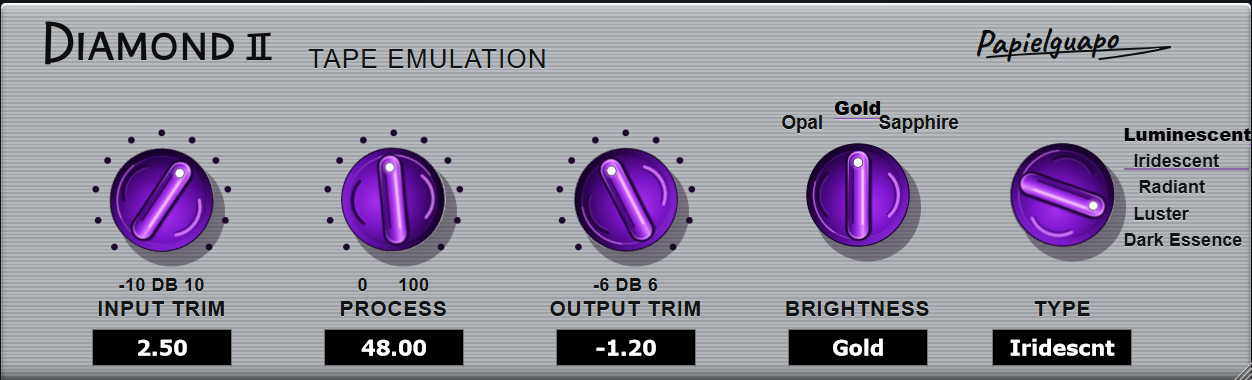
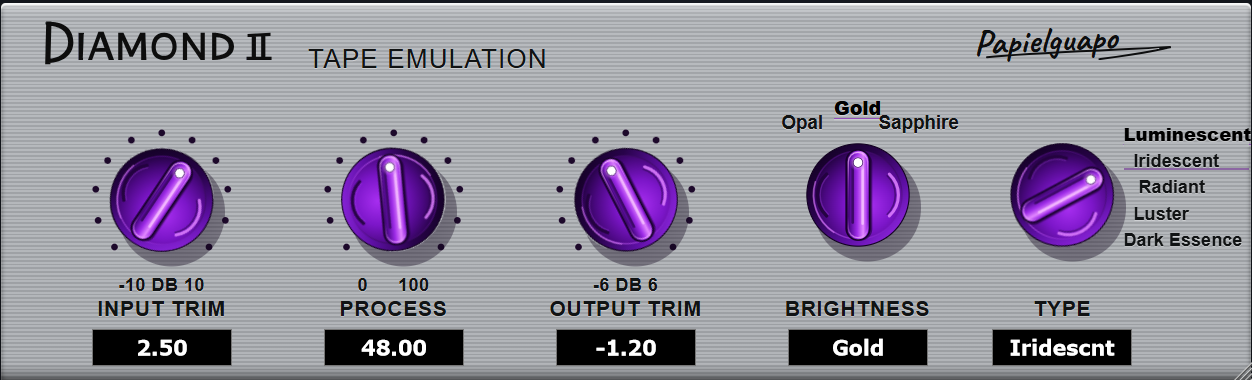
fix: compact scaling, bounded type selector and smooth character transitions

Changed region(s): [[0.8099, 0.4053, 0.9034, 0.6368]]

diff --git a/Tests/DspVerificationTest.cpp b/Tests/DspVerificationTest.cpp
@@ -11,6 +11,11 @@ juce::Slider* findSlider(juce::Component& root,const juce::String& name) {
     for(auto* child:root.getChildren()) if(auto* slider=findSlider(*child,name)) return slider;
     return nullptr;
 }
+juce::Button* findButton(juce::Component& root,const juce::String& id) {
+    if(auto* button=dynamic_cast<juce::Button*>(&root); button && button->getComponentID()==id) return button;
+    for(auto* child:root.getChildren()) if(auto* button=findButton(*child,id)) return button;
+    return nullptr;
+}
 int main() { try {
     juce::ScopedJuceInitialiser_GUI gui;
     std::mt19937 rng(2026); std::uniform_real_distribution<float> noise(-1,1);
@@ -65,7 +70,8 @@ int main() { try {
     }
     DiamondIIAudioProcessor p; set(p,"input",2.5f); set(p,"process",48); set(p,"output",-1.2f); set(p,"type",1);
     { DiamondIIAudioProcessorEditor ed(p); require(ed.isResizable(),"resizable");
-      for(int w:{751,939,1252,1565,1878,2504}) { ed.setSize(w,juce::roundToInt(w*380./1252.)); require(p.editorWidth==w,"resize persisted"); }
+      require(ed.getConstrainer()->getMinimumWidth()==313,"25 percent minimum");
+      for(int w:{313,417,626,751,939,1252,1565,1878,2504}) { ed.setSize(w,juce::roundToInt(w*380./1252.)); require(p.editorWidth==w,"resize persisted"); }
       auto* brightness=findSlider(ed,"brightness"); auto* type=findSlider(ed,"type");
       require(brightness && type,"skin choice knobs present");
       brightness->setValue(2,juce::sendNotificationSync); type->setValue(4,juce::sendNotificationSync);
@@ -73,11 +79,32 @@ int main() { try {
       require(p.state.getRawParameterValue("type")->load()==4,"type knob updates DSP");
       require(brightness->getTextFromValue(2)=="Sapphire" && type->getTextFromValue(4)=="DarkEssnc","skin choice readouts");
       set(p,"type",2); require(type->getValue()==2,"automation updates skin knob");
+      require(type->getRotaryParameters().stopAtEnd,"type stops at ends");
+      require(DiamondIIAudioProcessorEditor::typePointerAngle(4)-DiamondIIAudioProcessorEditor::typePointerAngle(0)<juce::MathConstants<float>::pi,"type sweep below half turn");
+      for(int i=0;i<5;++i) {
+          auto* row=findButton(ed,"type-row-"+juce::String(i)); require(row && row->onClick,"clickable type row"); row->onClick();
+          require(type->getValue()==i && p.state.getRawParameterValue("type")->load()==i,"row selects matching DSP and knob");
+          float y=195.5f-61.5f/std::tan(DiamondIIAudioProcessorEditor::typePointerAngle(i));
+          require(std::abs(y-(134.f+26*i))<.001f,"type pointer aims at label");
+      }
+      type->setValue(99,juce::sendNotificationSync); require(type->getValue()==4,"type upper clamp");
+      type->setValue(-99,juce::sendNotificationSync); require(type->getValue()==0,"type lower clamp");
     }
     juce::MemoryBlock state; p.getStateInformation(state); DiamondIIAudioProcessor restored; restored.setStateInformation(state.getData(),(int)state.getSize());
     require(restored.editorWidth==2504,"restore width"); require(restored.state.getRawParameterValue("process")->load()==48,"restore parameter");
     juce::MemoryBlock again; restored.getStateInformation(again);
     require(state==again,"state round trip");
+    { DiamondIIAudioProcessor tiny; tiny.editorWidth=313; tiny.editorHeight=95; juce::MemoryBlock data; tiny.getStateInformation(data);
+      DiamondIIAudioProcessor copy; copy.setStateInformation(data.getData(),(int)data.getSize()); DiamondIIAudioProcessorEditor editor(copy);
+      require(editor.getWidth()==313 && editor.getHeight()==95,"25 percent state restores"); }
+    {
+        DiamondIIAudioProcessor fade; set(fade,"process",100); fade.prepareToPlay(48000,2048); juce::MidiBuffer midi;
+        juce::AudioBuffer<float> signal(2,2048); for(int c=0;c<2;++c) for(int n=0;n<2048;++n) signal.setSample(c,n,.5f); fade.processBlock(signal,midi);
+        auto oldEngine=fade.engine,newEngine=fade.engine;
+        float oldSample=oldEngine.tickGained(.5f,0,1,1,1,0,false),newSample=newEngine.tickGained(.5f,0,1,1,1,4,false);
+        set(fade,"type",4); signal.setSize(2,1); signal.setSample(0,0,.5f); signal.setSample(1,0,.5f); fade.processBlock(signal,midi);
+        require(std::abs(signal.getSample(0,0)-(oldSample+(newSample-oldSample)/240.f))<1e-6f,"5 ms type crossfade starts smoothly");
+    }
     // Warm state must not leak into a later exact-unity block.
     p.prepareToPlay(48000,64); juce::AudioBuffer<float> b(2,64); juce::MidiBuffer m;
     for(int c=0;c<2;++c) for(int n=0;n<64;++n) b.setSample(c,n,.6f); p.processBlock(b,m);

diff --git a/Source/PluginEditor.cpp b/Source/PluginEditor.cpp
@@ -18,7 +18,10 @@ void DiamondLook::drawRotarySlider(juce::Graphics& g,int,int,int,int,float pos,f
     const float neutral=(float)slider.getProperties()["neutral"],sweep=(float)slider.getProperties()["sweep"];
     juce::Graphics::ScopedSaveState save(g); juce::Path clip;
     clip.addEllipse(cx-52.5f,cy-52.5f,105.f,105.f); g.reduceClipRegion(clip);
-    g.addTransform(juce::AffineTransform::rotation((pos-neutral)*sweep,cx,cy));
+    const float rotation=slider.getName()=="type"
+        ? DiamondIIAudioProcessorEditor::typePointerAngle(juce::roundToInt(pos*4))-std::atan2(21.5f,25.5f)
+        : (pos-neutral)*sweep;
+    g.addTransform(juce::AffineTransform::rotation(rotation,cx,cy));
     g.drawImageAt(skin,-juce::roundToInt(sx),-143);
 }
 DiamondIIAudioProcessorEditor::DiamondIIAudioProcessorEditor(DiamondIIAudioProcessor& p):AudioProcessorEditor(p),processor(p) {
@@ -45,9 +48,18 @@ DiamondIIAudioProcessorEditor::DiamondIIAudioProcessorEditor(DiamondIIAudioProce
         k.setDoubleClickReturnValue(true,i==3?1:0);
         k.setTooltip("Drag to adjust; double-click to reset. Right-click the panel for interface size.");
     }
-    setResizable(true,true); setResizeLimits(751,228,2504,760); getConstrainer()->setFixedAspectRatio(1252./380.);
+    const juce::StringArray typeNames{"Luminescent","Iridescent","Radiant","Luster","Dark Essence"};
+    for(int i=0;i<5;++i) {
+        auto& row=typeRows[i]; panel.addAndMakeVisible(row); row.setName(typeNames[i]); row.setComponentID("type-row-"+juce::String(i));
+        row.setTooltip("Select "+typeNames[i]); row.onClick=[this,i] {
+            auto* parameter=processor.state.getParameter("type"); parameter->beginChangeGesture(); parameter->setValueNotifyingHost(parameter->convertTo0to1((float)i)); parameter->endChangeGesture();
+        };
+    }
+    knobs[4].setRotaryParameters(typePointerAngle(0)+juce::MathConstants<float>::twoPi,typePointerAngle(4)+juce::MathConstants<float>::twoPi,true);
+    knobs[4].setMouseDragSensitivity(140);
+    setResizable(true,true); setResizeLimits(313,95,2504,760); getConstrainer()->setFixedAspectRatio(1252./380.);
     int width=p.editorWidth.load();
-    if(auto* display=juce::Desktop::getInstance().getDisplays().getPrimaryDisplay()) width=juce::jlimit(751,2504,juce::jmin(width,display->userArea.getWidth()-40,juce::roundToInt((display->userArea.getHeight()-80)*1252./380.)));
+    if(auto* display=juce::Desktop::getInstance().getDisplays().getPrimaryDisplay()) width=juce::jlimit(313,2504,juce::jmin(width,display->userArea.getWidth()-40,juce::roundToInt((display->userArea.getHeight()-80)*1252./380.)));
     setSize(width,juce::roundToInt(width*380./1252.));
 }
 DiamondIIAudioProcessorEditor::~DiamondIIAudioProcessorEditor() { setLookAndFeel(nullptr); }
@@ -56,6 +68,7 @@ void DiamondIIAudioProcessorEditor::resized() {
     const float scale=juce::jmin(getWidth()/1252.f,getHeight()/380.f);
     panel.setTransform(juce::AffineTransform::scale(scale).translated((getWidth()-1252*scale)*.5f,(getHeight()-380*scale)*.5f));
     const int xs[]={92,324,556,788,992}; for(int i=0;i<5;++i) knobs[i].setBounds(xs[i],143,140,223);
+    for(int i=0;i<5;++i) typeRows[i].setBounds(1121,123+i*26,128,25);
 }
 void DiamondIIAudioProcessorEditor::paint(juce::Graphics& g) {
     g.fillAll(juce::Colours::black); juce::Graphics::ScopedSaveState saved(g);
@@ -71,9 +84,9 @@ void DiamondIIAudioProcessorEditor::paint(juce::Graphics& g) {
 void DiamondIIAudioProcessorEditor::mouseDown(const juce::MouseEvent& event) {
     if(!event.mods.isPopupMenu()) return;
     juce::PopupMenu menu; menu.addSectionHeader("Interface size");
-    const int percentages[]={60,75,100,125,150,200}; for(int i=0;i<6;++i) menu.addItem(i+1,juce::String(percentages[i])+" %");
+    const int percentages[]={25,33,50,60,75,100,125,150,200}; for(int i=0;i<9;++i) menu.addItem(i+1,juce::String(percentages[i])+" %");
     menu.showMenuAsync(juce::PopupMenu::Options().withTargetComponent(this),[safe=juce::Component::SafePointer<DiamondIIAudioProcessorEditor>(this)](int result) {
-        if(!safe || result<1 || result>6) return; const double sizes[]={.6,.75,1,1.25,1.5,2};
+        if(!safe || result<1 || result>9) return; const double sizes[]={.25,1./3.,.5,.6,.75,1,1.25,1.5,2};
         safe->setSize(juce::roundToInt(1252*sizes[result-1]),juce::roundToInt(380*sizes[result-1]));
     });
 }

diff --git a/Source/PluginProcessor.cpp b/Source/PluginProcessor.cpp
@@ -15,17 +15,31 @@ DiamondIIAudioProcessor::DiamondIIAudioProcessor():AudioProcessor(BusesPropertie
 void DiamondIIAudioProcessor::prepareToPlay(double fs,int) {
     engine.prepare(fs); inputGain.reset(fs,.015); outputGain.reset(fs,.015); amount.reset(fs,.015);
     inputGain.setCurrentAndTargetValue(std::pow(10.,values[0]->load()/20.)); outputGain.setCurrentAndTargetValue(std::pow(10.,values[2]->load()/20.)); amount.setCurrentAndTargetValue(values[1]->load()*.01f);
+    currentType=juce::roundToInt(values[4]->load()); currentBrightness=juce::roundToInt(values[3]->load());
+    engine.setBrightness(currentBrightness); previousEngine=engine; previousType=currentType;
+    characterFade.reset(fs,.005); characterFade.setCurrentAndTargetValue(1);
 }
 bool DiamondIIAudioProcessor::isBusesLayoutSupported(const BusesLayout& l) const { return l.getMainInputChannelSet()==l.getMainOutputChannelSet() && (l.getMainOutputChannelSet()==juce::AudioChannelSet::mono() || l.getMainOutputChannelSet()==juce::AudioChannelSet::stereo()); }
 void DiamondIIAudioProcessor::processBlock(juce::AudioBuffer<float>& b,juce::MidiBuffer&) {
     juce::ScopedNoDenormals guard;
     const float in=values[0]->load(),p=values[1]->load()*.01f,out=values[2]->load();
-    engine.setBrightness(juce::roundToInt(values[3]->load())); const int t=juce::roundToInt(values[4]->load());
+    const int brightness=juce::roundToInt(values[3]->load()),t=juce::roundToInt(values[4]->load());
+    if(t!=currentType || brightness!=currentBrightness) {
+        previousEngine=engine; previousType=currentType; currentType=t; currentBrightness=brightness;
+        engine.setBrightness(brightness); characterFade.setCurrentAndTargetValue(0); characterFade.setTargetValue(1);
+    }
     inputGain.setTargetValue(std::pow(10.,in/20.)); outputGain.setTargetValue(std::pow(10.,out/20.)); amount.setTargetValue(p);
     const bool unity=in==0 && p==0 && out==0;
     for(int n=0;n<b.getNumSamples();++n) {
         const auto ig=inputGain.getNextValue(),og=outputGain.getNextValue(); const float mix=amount.getNextValue();
-        for(int c=0;c<b.getNumChannels();++c) b.setSample(c,n,engine.tickGained(b.getSample(c,n),c,ig,mix,og,t,unity));
+        const bool transitioning=characterFade.isSmoothing(); const float fade=characterFade.getNextValue();
+        for(int c=0;c<b.getNumChannels();++c) {
+            const float input=b.getSample(c,n),next=engine.tickGained(input,c,ig,mix,og,t,unity);
+            if(transitioning) {
+                const float old=previousEngine.tickGained(input,c,ig,mix,og,previousType,unity);
+                b.setSample(c,n,unity?input:old+(next-old)*fade);
+            } else b.setSample(c,n,next);
+        }
     }
 }
 juce::AudioProcessorEditor* DiamondIIAudioProcessor::createEditor() { return new DiamondIIAudioProcessorEditor(*this); }
@@ -35,6 +49,6 @@ void DiamondIIAudioProcessor::getStateInformation(juce::MemoryBlock& b) {
 void DiamondIIAudioProcessor::setStateInformation(const void* d,int n) {
     auto xml=getXmlFromBinary(d,n); if(!xml || !xml->hasTagName("DiamondII")) return;
     auto s=juce::ValueTree::fromXml(*xml); state.replaceState(s);
-    editorWidth=juce::jlimit(751,2504,(int)s.getProperty("width",1252)); editorHeight=juce::roundToInt(editorWidth.load()*380./1252.);
+    editorWidth=juce::jlimit(313,2504,(int)s.getProperty("width",1252)); editorHeight=juce::roundToInt(editorWidth.load()*380./1252.);
 }
 juce::AudioProcessor* JUCE_CALLTYPE createPluginFilter() { return new DiamondIIAudioProcessor; }

diff --git a/Tests/GeneratePluginScreenshot.cpp b/Tests/GeneratePluginScreenshot.cpp
@@ -12,7 +12,9 @@ int main(int argc,char** argv) {
     { juce::FileOutputStream stream(file); if(!stream.openedOk()) return 1; stream.setPosition(0); stream.truncate(); juce::PNGImageFormat png; if(!png.writeImageToStream(image,stream)) return 2; }
     std::cout<<file.getFullPathName()<<" "<<image.getWidth()<<"x"<<image.getHeight()<<" "<<file.getSize()<<" bytes\n";
     if(image.getWidth()!=1960 || image.getHeight()!=600 || file.getSize()<=50*1024) return 3;
-    for(auto size:{751,939,1252,1565,1878,2504}) { editor.setSize(size,juce::roundToInt(size*380./1252.)); auto preview=editor.createComponentSnapshot(editor.getLocalBounds()); juce::FileOutputStream out(file.getSiblingFile("screenshot-"+juce::String(size)+".png")); out.setPosition(0); out.truncate(); juce::PNGImageFormat{}.writeImageToStream(preview,out); }
+    for(auto size:{313,417,626,751,939,1252,1565,1878,2504}) { editor.setSize(size,juce::roundToInt(size*380./1252.)); auto preview=editor.createComponentSnapshot(editor.getLocalBounds()); juce::FileOutputStream out(file.getSiblingFile("screenshot-"+juce::String(size)+".png")); out.setPosition(0); out.truncate(); juce::PNGImageFormat{}.writeImageToStream(preview,out); }
+    editor.setSize(1252,380);
+    for(int i=0;i<5;++i) { set("type",(float)i); auto shot=editor.createComponentSnapshot(editor.getLocalBounds()); juce::FileOutputStream out(file.getSiblingFile("type-"+juce::String(i)+".png")); out.setPosition(0); out.truncate(); juce::PNGImageFormat{}.writeImageToStream(shot,out); }
     DiamondIIAudioProcessor defaults;
     DiamondIIAudioProcessorEditor reference(defaults); reference.setSize(1252,380);
     auto defaultImage=reference.createComponentSnapshot(reference.getLocalBounds());

diff --git a/Source/PluginEditor.h b/Source/PluginEditor.h
@@ -1,5 +1,12 @@
 #pragma once
 #include "PluginProcessor.h"
+class TypeRowButton : public juce::Button {
+public:
+    TypeRowButton():Button("Type") {}
+    void paintButton(juce::Graphics& g,bool hover,bool down) override {
+        if(hover || down) { g.setColour(juce::Colour(0xff7719ae).withAlpha(down?.23f:.12f)); g.fillRoundedRectangle(getLocalBounds().toFloat(),2); }
+    }
+};
 class DiamondLook : public juce::LookAndFeel_V4 {
 public:
     DiamondLook();
@@ -15,10 +22,12 @@ public:
     void paint(juce::Graphics&) override;
     void resized() override;
     void mouseDown(const juce::MouseEvent&) override;
+    static float typePointerAngle(int index) { return std::atan2(61.5f,195.5f-(134.f+26.f*juce::jlimit(0,4,index))); }
 private:
     DiamondIIAudioProcessor& processor;
     DiamondLook look;
     juce::Component panel;
     std::array<juce::Slider,5> knobs;
+    std::array<TypeRowButton,5> typeRows;
     std::array<std::unique_ptr<juce::AudioProcessorValueTreeState::SliderAttachment>,5> attachments;
 };

diff --git a/Source/PluginProcessor.h b/Source/PluginProcessor.h
@@ -28,4 +28,7 @@ private:
     std::array<std::atomic<float>*,5> values;
     juce::SmoothedValue<double> inputGain,outputGain;
     juce::SmoothedValue<float> amount;
+    diamond::Engine previousEngine;
+    juce::SmoothedValue<float> characterFade;
+    int currentType=0,currentBrightness=1,previousType=0;
 };

diff --git a/README.md b/README.md
@@ -2,7 +2,7 @@
 
 ![DIAMOND II - Papielguapo Edition VST3](assets/screenshot.png)
 
-A C++20 / JUCE 8 parallel tape-colour processor, with the supplied silver-metal / purple-knob skin, five saturation characters and three spectral profiles. Builds VST3 and Standalone for mono/stereo float processing. Resize by dragging the corner or right-click the panel to select 60–200%; dimensions are saved per instance with the plugin state. The reference artwork is embedded in the binary, and the knob faces rotate as the real parameters change. Numeric readouts remain editable. The base design is 1252×380; the original raster resolution determines sharpness when enlarged. Input trim is ±10 dB and Output trim is ±6 dB, matching the printed scales.
+A C++20 / JUCE 8 parallel tape-colour processor, with the supplied silver-metal / purple-knob skin, five saturation characters and three spectral profiles. Builds VST3 and Standalone for mono/stereo float processing. Resize by dragging the corner or right-click the panel to select 25–200%; dimensions are saved per instance with the plugin state. The reference artwork is embedded in the binary, and the knob faces rotate as the real parameters change. Numeric readouts remain editable. The base design is 1252×380; the original raster resolution determines sharpness when enlarged. Input trim is ±10 dB and Output trim is ±6 dB, matching the printed scales. The minimum size is 313×95 (25%); 33%, 50%, 60%, 75%, 100%, 125%, 150% and 200% presets are also available. Negative scale percentages have no meaningful window geometry. Type uses five bounded detents aimed at the label rows, with less than 90 degrees of total pointer travel; the labels are clickable and track host automation.
 
 **Independent approximation, not a verified 1:1 clone of Phoenix II.** No proprietary source, reference binary, impulse captures or measurements were supplied. Character names and initial parameter values come from the design brief. There is no evidence here that Crane Song used these equations, memory model or filter settings. There is no affiliation with Crane Song or Dave Hill. Bit accuracy below concerns the dry unity path only. The initial brief's assertions about original hardware/DSP are not established engineering facts.
 
@@ -12,7 +12,7 @@ For input/output gains `gi`, `go` and Process `p` in [0,1]:
 
 `dry = gi * x; excitation = Hpre(dry); delta = f(excitation, memory, envelope) - excitation; y = go * (dry + p * Hpost(DCblock(delta)))`.
 
-The dry path never passes through the emphasis filters. At exactly 0 dB Input, 0% Process and 0 dB Output, the processor returns the original float directly, preserving its bit pattern (including signed zero) regardless of wet-path state. The wet model keeps running while dry. Input/output gain and Process transitions are smoothed over 15 ms; exact unity requests take effect immediately to preserve the null guarantee. Type and Brightness changes are discrete and can produce a transient; automate these between audio passages.
+The dry path never passes through the emphasis filters. At exactly 0 dB Input, 0% Process and 0 dB Output, the processor returns the original float directly, preserving its bit pattern (including signed zero) regardless of wet-path state. The wet model keeps running while dry. Input/output gain and Process transitions are smoothed over 15 ms; exact unity requests take effect immediately to preserve the null guarantee. Type and Brightness changes crossfade old and new processing states over 5 ms. This reduces switching discontinuities without allocating memory or adding signal latency. Repeated changes during an active transition restart that transition and are not guaranteed artifact-free. The exact-unity path remains bit accurate during transitions.
 
 No oversampling, lookahead or added latency is used. Nonlinear aliasing is intentional and sample-rate dependent. No ADAA is claimed or implemented. Output is not limited: allow headroom, especially with positive output trim. This is not a loudness-matched emulation.
 
